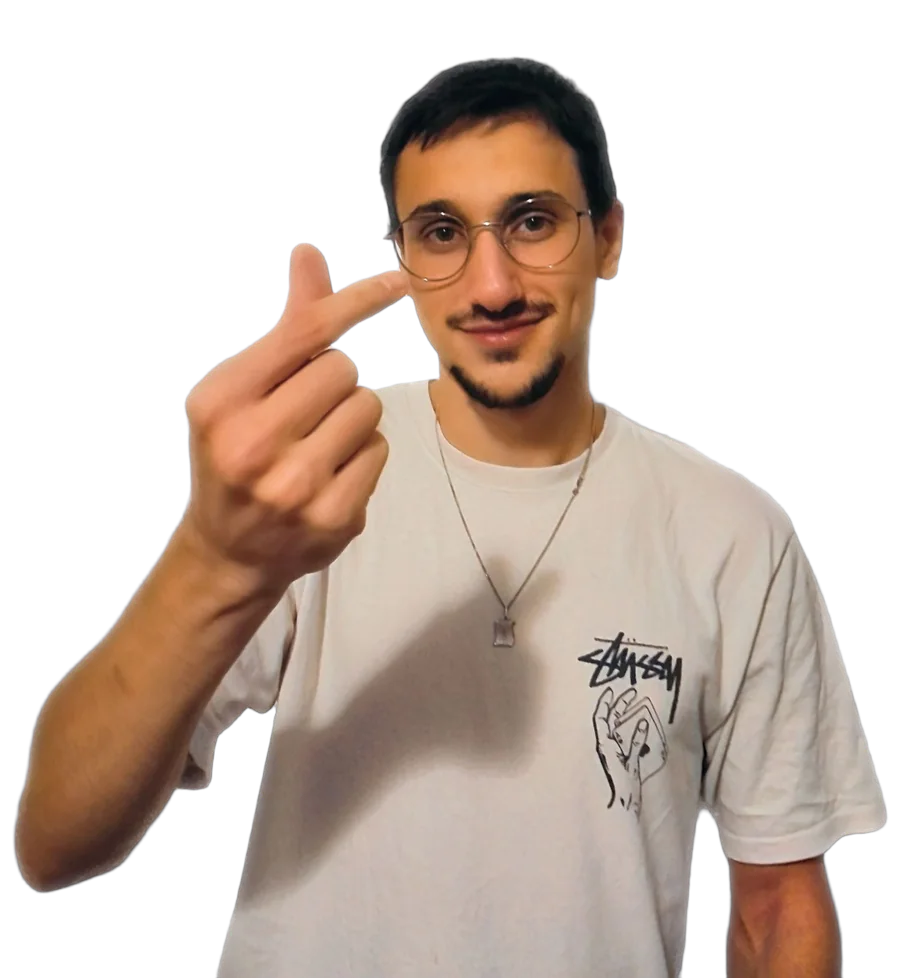
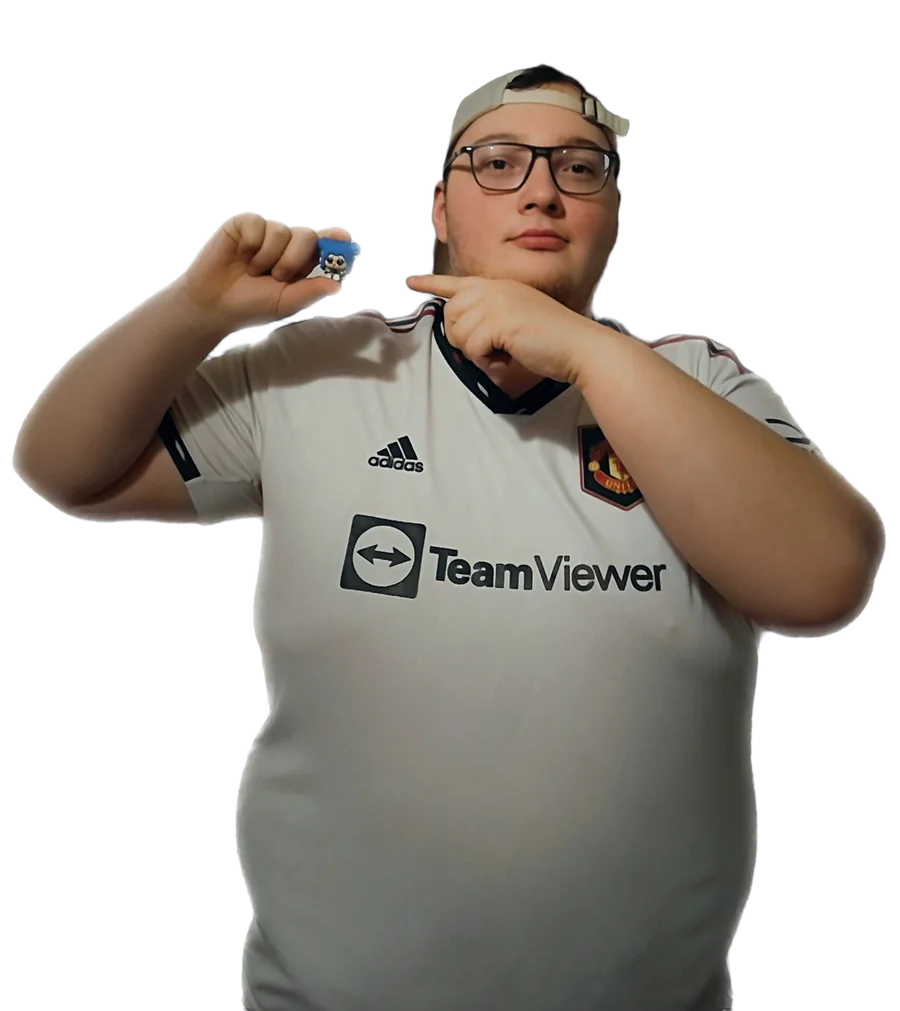
Players page: fix swapped Shiaga/Medhielm photos

diff --git a/joueurs/index.html b/joueurs/index.html
@@ -466,13 +466,13 @@ const EffetSiteMansurDA = {
       region: 'Bordeaux', sensi: 0.4, dpi: 800, reseaux: ['twitch', 'x'],
       bio: ['Joue depuis 4 ans, « toujours la niaque ».', 'Pointilleux et exigeant dans son lead.', 'Sait aussi prendre les choses à la rigolade.'],
       setup: [['Clavier', 'Wooting 60HE+'], ['Casque', 'Razer BlackShark V3'], ['Souris', 'Logitech Superlight 2 (8 kHz)']] },
-    { numero: '03', pseudo: 'Medhielm', role: 'Contrôleur · smoker', agent: 'Omen', agentImage: '' + IMAGES_MAQUETTE['ressources-maquette/V-valorant/agents-detoures/omen-full.webp'] + '', photo: '' + 'assets/players/p4-main.webp' + '', acs: 198, kd: '1.05', hs: 24,
+    { numero: '03', pseudo: 'Medhielm', role: 'Contrôleur · smoker', agent: 'Omen', agentImage: '' + IMAGES_MAQUETTE['ressources-maquette/V-valorant/agents-detoures/omen-full.webp'] + '', photo: '' + 'assets/players/p3-main.webp' + '', acs: 198, kd: '1.05', hs: 24,
       identite: 'Tristan · 27 ans', icone: 'controleur', dossier: 'omen',
       region: 'Marseille', sensi: 0.21, dpi: 1600, reseaux: ['twitch', 'tiktok', 'x'], direct: true,
       liens: { twitch: 'https://www.twitch.tv/m3hdielm' }, titreDirect: 'Ranked Immortel · Omen', spectateurs: '1,2 k', imageDirect: '' + IMAGES_MAQUETTE['ressources-maquette/V-valorant/illustrations/closed-beta-promo.webp'] + '',
       bio: ['Joueur compétitif, le smoker de l\'équipe.', 'Passionné de danse depuis l\'enfance.'],
       setup: [['Clavier', 'Wooting 80HE+'], ['Souris', 'Logitech Pro X Superlight 2 SE'], ['Écouteurs', 'Linsoul Kiwi Ears']] },
-    { numero: '04', pseudo: 'Blackkzon', role: 'Duelliste entry', agent: 'Jett', agentImage: '' + IMAGES_MAQUETTE['ressources-maquette/V-valorant/agents-detoures/jett-full.webp'] + '', photo: '' + 'assets/players/p3-main.webp' + '', acs: 205, kd: '1.18', hs: 28,
+    { numero: '04', pseudo: 'Blackkzon', role: 'Duelliste entry', agent: 'Jett', agentImage: '' + IMAGES_MAQUETTE['ressources-maquette/V-valorant/agents-detoures/jett-full.webp'] + '', photo: '' + 'assets/players/p4-main.webp' + '', acs: 205, kd: '1.18', hs: 28,
       identite: 'Jason · 23 ans', icone: 'duelliste', dossier: 'jett',
       region: 'Lille', sensi: 0.45, dpi: 800, reseaux: ['x', 'tiktok'],
       bio: ['Joue à Valorant depuis 6 ans, à fond depuis 4 ans.', 'Hors du jeu : cuisine, lecture, temps entre amis.'],
@@ -3974,13 +3974,13 @@ const EffetSiteMansurMobile = {
       region: 'Bordeaux', sensi: 0.4, dpi: 800, reseaux: ['twitch', 'x'],
       bio: ['Joue depuis 4 ans, « toujours la niaque ».', 'Pointilleux et exigeant dans son lead.', 'Sait aussi prendre les choses à la rigolade.'],
       setup: [['Clavier', 'Wooting 60HE+'], ['Casque', 'Razer BlackShark V3'], ['Souris', 'Logitech Superlight 2 (8 kHz)']] },
-    { numero: '03', pseudo: 'Medhielm', role: 'Contrôleur · smoker', agent: 'Omen', agentImage: '' + IMAGES_MAQUETTE['ressources-maquette/V-valorant/agents-detoures/omen-full.webp'] + '', photo: '' + 'assets/players/p4-main.webp' + '', acs: 198, kd: '1.05', hs: 24,
+    { numero: '03', pseudo: 'Medhielm', role: 'Contrôleur · smoker', agent: 'Omen', agentImage: '' + IMAGES_MAQUETTE['ressources-maquette/V-valorant/agents-detoures/omen-full.webp'] + '', photo: '' + 'assets/players/p3-main.webp' + '', acs: 198, kd: '1.05', hs: 24,
       identite: 'Tristan · 27 ans', icone: 'controleur', dossier: 'omen',
       region: 'Marseille', sensi: 0.21, dpi: 1600, reseaux: ['twitch', 'tiktok', 'x'], direct: true,
       liens: { twitch: 'https://www.twitch.tv/m3hdielm' }, titreDirect: 'Ranked Immortel · Omen', spectateurs: '1,2 k', imageDirect: '' + IMAGES_MAQUETTE['ressources-maquette/V-valorant/illustrations/closed-beta-promo.webp'] + '',
       bio: ['Joueur compétitif, le smoker de l\'équipe.', 'Passionné de danse depuis l\'enfance.'],
       setup: [['Clavier', 'Wooting 80HE+'], ['Souris', 'Logitech Pro X Superlight 2 SE'], ['Écouteurs', 'Linsoul Kiwi Ears']] },
-    { numero: '04', pseudo: 'Blackkzon', role: 'Duelliste entry', agent: 'Jett', agentImage: '' + IMAGES_MAQUETTE['ressources-maquette/V-valorant/agents-detoures/jett-full.webp'] + '', photo: '' + 'assets/players/p3-main.webp' + '', acs: 205, kd: '1.18', hs: 28,
+    { numero: '04', pseudo: 'Blackkzon', role: 'Duelliste entry', agent: 'Jett', agentImage: '' + IMAGES_MAQUETTE['ressources-maquette/V-valorant/agents-detoures/jett-full.webp'] + '', photo: '' + 'assets/players/p4-main.webp' + '', acs: 205, kd: '1.18', hs: 28,
       identite: 'Jason · 23 ans', icone: 'duelliste', dossier: 'jett',
       region: 'Lille', sensi: 0.45, dpi: 800, reseaux: ['x', 'tiktok'],
       bio: ['Joue à Valorant depuis 6 ans, à fond depuis 4 ans.', 'Hors du jeu : cuisine, lecture, temps entre amis.'],
